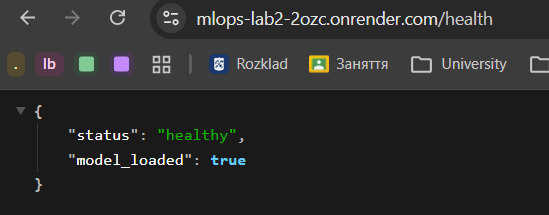
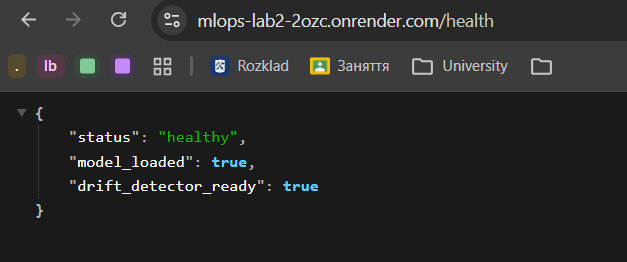
upd readme

diff --git a/README.md b/README.md
@@ -1,6 +1,6 @@
 # Iris ML API — Лабораторна робота 2 & 3 (MLOps)
 
-[![CI](https://github.com/mediano11/MLOps-Lab2/actions/workflows/ci.yml/badge.svg)](https://github.com/mediano11/MLOps-Lab2/actions/workflows/ci.yml)
+[![CI Lab3](https://github.com/mediano11/MLOps-Lab2/actions/workflows/ci-lab3.yml/badge.svg)](https://github.com/mediano11/MLOps-Lab2/actions/workflows/ci-lab3.yml)
 
 **Автор:** Пестенков Дмітрій
 **Дата:** 2026-05-15
@@ -56,8 +56,8 @@ ml-api-lab/
 │   ├── test_metrics.py      # Тести Prometheus-метрик (ЛР3)
 │   └── test_drift.py        # Тести детектора drift (ЛР3)
 ├── assets/
-│   ├── health.png
-│   └── predict.png
+│   ├── Screenshot_1.png     # скріншот перевірки GET /health на Render
+│   └── Screenshot_2.png     # скріншот перевірки POST /check-drift
 ├── model.joblib             # Артефакт моделі
 ├── reference_stats.joblib   # Reference-вибірка для drift detection
 ├── requirements.txt
@@ -261,13 +261,19 @@ python scripts/evidently_report.py
 
 ## Демонстрація роботи
 
+Роботу розгорнутого сервісу на **Render** (`https://mlops-lab2-2ozc.onrender.com`) перевірено вручну; нижче — скріншоти з каталогу `assets/`.
+
 ### GET `/health` — перевірка стану сервісу
 
-![health endpoint](assets/health.png)
+У браузері відкрито `…/health`: відповідь JSON підтверджує `status: healthy`, модель завантажена (`model_loaded: true`) і drift-детектор готовий (`drift_detector_ready: true`).
 
-### POST `/predict` — класифікація квітки Iris
+![Перевірка GET /health на Render](assets/Screenshot_1.png)
 
-![predict endpoint](assets/predict.png)
+### POST `/check-drift` — перевірка детекції drift
+
+Запит до `/check-drift` (наприклад, через Postman) з батчем аномальних зразків і `alpha: 0.05`: у відповіді `drift_detected: true`, усі чотири ознаки з дуже малим `p_value` — зсув даних виявлено коректно.
+
+![Перевірка POST /check-drift на Render](assets/Screenshot_2.png)
 
 ## Посилання на деплой
 